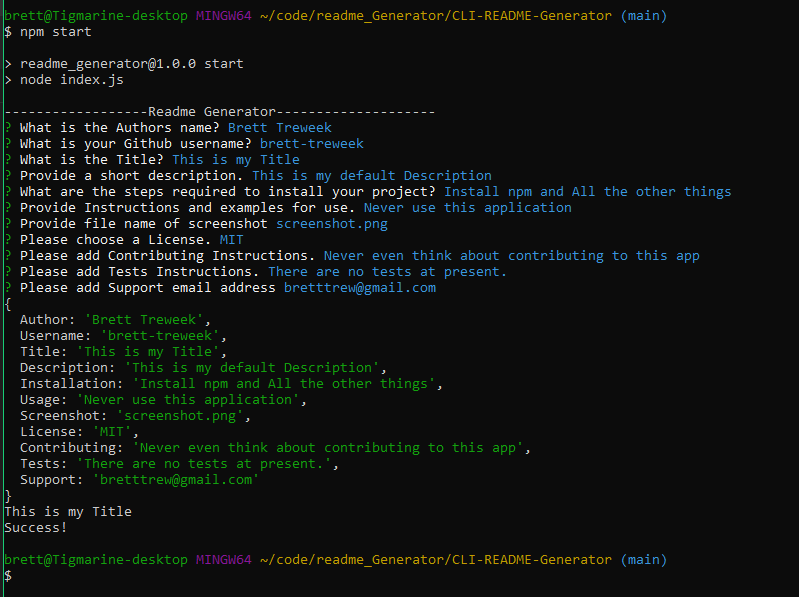
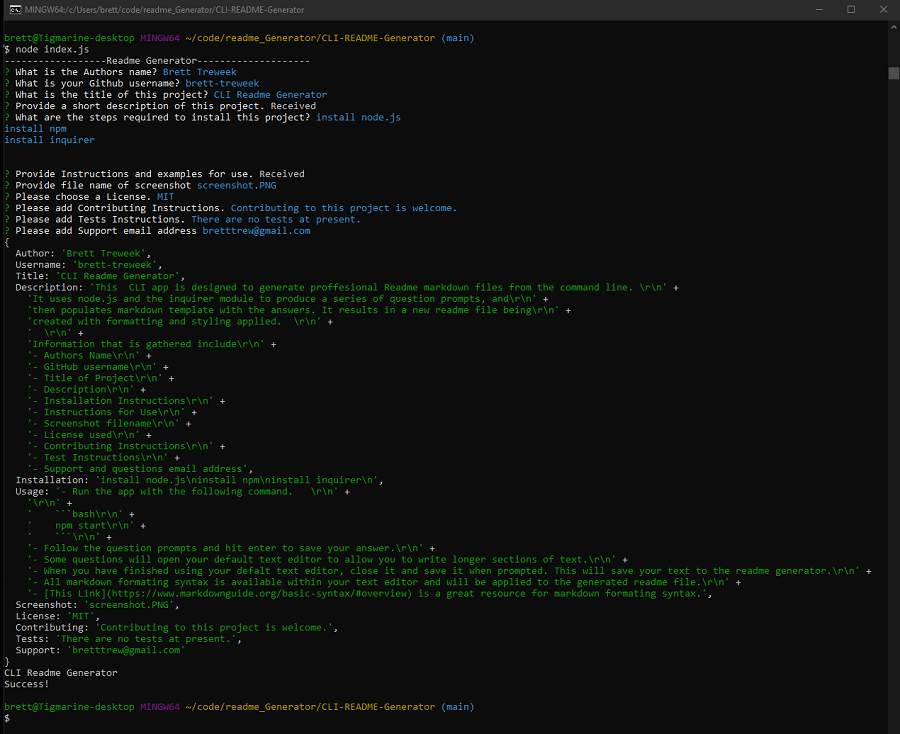
cleaned up index.js, added comments, finished template

Changed region(s): [[0.0, 0.0, 1.0, 1.0], [0.9912, 0.0905, 1.0, 0.1206]]

diff --git a/index.js b/index.js
@@ -1,12 +1,15 @@
-var inquirer = require('inquirer');
+// ---------------Required Modules--------------------------
+const inquirer = require('inquirer');
 const fs = require('fs');
 
+// --------------License Logo link Variables-----------------
 const mit = '![AUR license](https://img.shields.io/static/v1?label=License&message=MIT&color=blue)';
 const apache = '![AUR license](https://img.shields.io/static/v1?label=License&message=Apache&color=blue)';
 const gnu2 = '![AUR license](https://img.shields.io/static/v1?label=License&message=GNU-2.0&color=blue)';
 const gnu3 = '![AUR license](https://img.shields.io/static/v1?label=License&message=GNU-3.0&color=blue)';
 const none = '![AUR license](https://img.shields.io/static/v1?label=License&message=none&color=red)';
 
+// ---------------------Questions Array----------------------
 const questions = [
   {
       type: 'input',
@@ -23,8 +26,8 @@ const questions = [
   {
       type: 'input',
       name: 'Title',
-      message: 'What is the Title?',
-      default: 'This is my Title',
+      message: 'What is the title of this project?',
+      default: 'CLI Readme Generator',
       validate: (answer) => {
           if(answer=== ''){
               return 'Please enter a valid title'
@@ -33,10 +36,9 @@ const questions = [
       }
   },
   {
-      type: 'input',
+      type: 'editor',
       name: 'Description',
-      message: 'Provide a short description.',
-      default: 'This is my default Description',
+      message: 'Provide a short description of this project.',
       validate: (answer) => {
           if(answer=== ''){
               return 'Please enter a valid Description'
@@ -47,8 +49,8 @@ const questions = [
   {
       type: 'input',
       name: 'Installation',
-      message: 'What are the steps required to install your project?',
-      default: 'Install npm and All the other things',
+      message: 'What are the steps required to install this project?',
+      default: 'install node.js\ninstall npm\ninstall inquirer\n',
       validate: (answer) => {
           if(answer=== ''){
               return 'Please enter valid Instructions'
@@ -57,10 +59,9 @@ const questions = [
       }
   },
   {
-      type: 'input',
+      type: 'editor',
       name: 'Usage',
       message: 'Provide Instructions and examples for use.',
-      default: 'Never use this application',
       validate: (answer) => {
           if(answer=== ''){
               return 'Please enter valid Instructions'
@@ -92,7 +93,7 @@ const questions = [
       type: 'input',
       name: 'Contributing',
       message: 'Please add Contributing Instructions.',
-      default: 'Never even think about contributing to this app',
+      default: 'Contributing to this project is welcome.',
       validate: (answer) => {
           if(answer=== ''){
               return 'Please enter valid Instructions'
@@ -122,15 +123,13 @@ const questions = [
   
 ]
 
-
-
 console.log('------------------Readme Generator--------------------')
 
 inquirer
   .prompt(questions)
   .then(answers => {
-    // Use user feedback for... whatever!!
-
+   
+// -----------------License Logo If Statement-------------------------
     if(answers.License === 'MIT'){
         licenseLogo = mit
     }else if (answers.License === 'GNU 2.0'){
@@ -143,9 +142,7 @@ inquirer
         licenseLogo = none
     }
 
-
-
-
+// --------------------Markdown Template-----------------------------
 const readmeFramework =
 `# ${answers.Title}\n
 ${licenseLogo}\n
@@ -162,11 +159,13 @@ ${answers.Description}\n
 ---
 ## Installation\n
 Please follow these steps to install the project and any dependancies.\n
-    ${answers.Installation}\n
+\`\`\`bash
+${answers.Installation}\n
+\`\`\`\n
 ---
 ## Usage\n
-![alt text](Assets/Images/${answers.Screenshot})\n
 ${answers.Usage}\n
+![alt text](Assets/Images/${answers.Screenshot})\n
 ---
 ## License\n
 This project is licensed under ${licenseLogo}\n
@@ -185,26 +184,8 @@ ${answers.Tests}\n
 For any questions and support please contact ${answers.Author} at ${answers.Support} or message me through [GitHub](https://github.com/${answers.Username}).`
     
 
-
-
-
-
-
-
-
-
-
-
-
-
-
-
-
-
-
-
-
-    fs.writeFile('generatedReadme.md', readmeFramework, (err) =>
+// -----------------Function to create Readme and catch errors--------------------
+    fs.writeFile('README.md', readmeFramework, (err) =>
     err ? console.error(err) : console.log('Success!')
     );
     console.log(answers)
